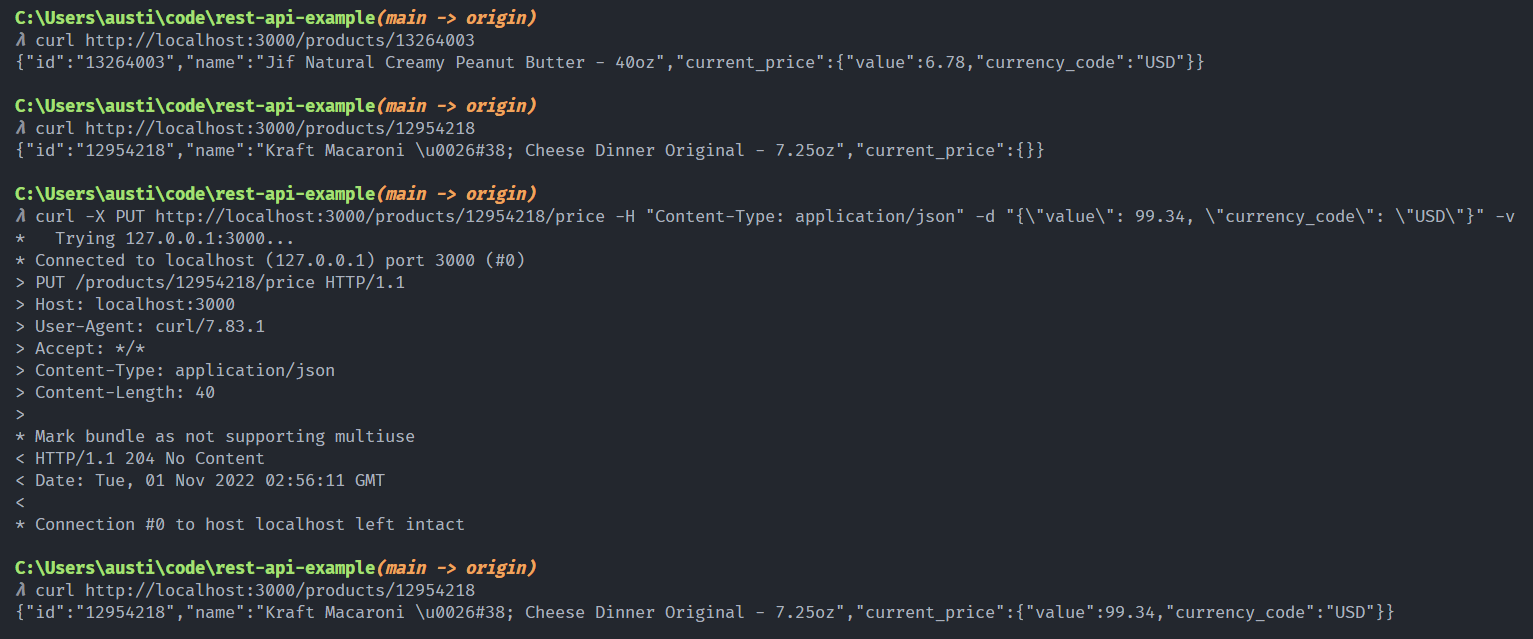
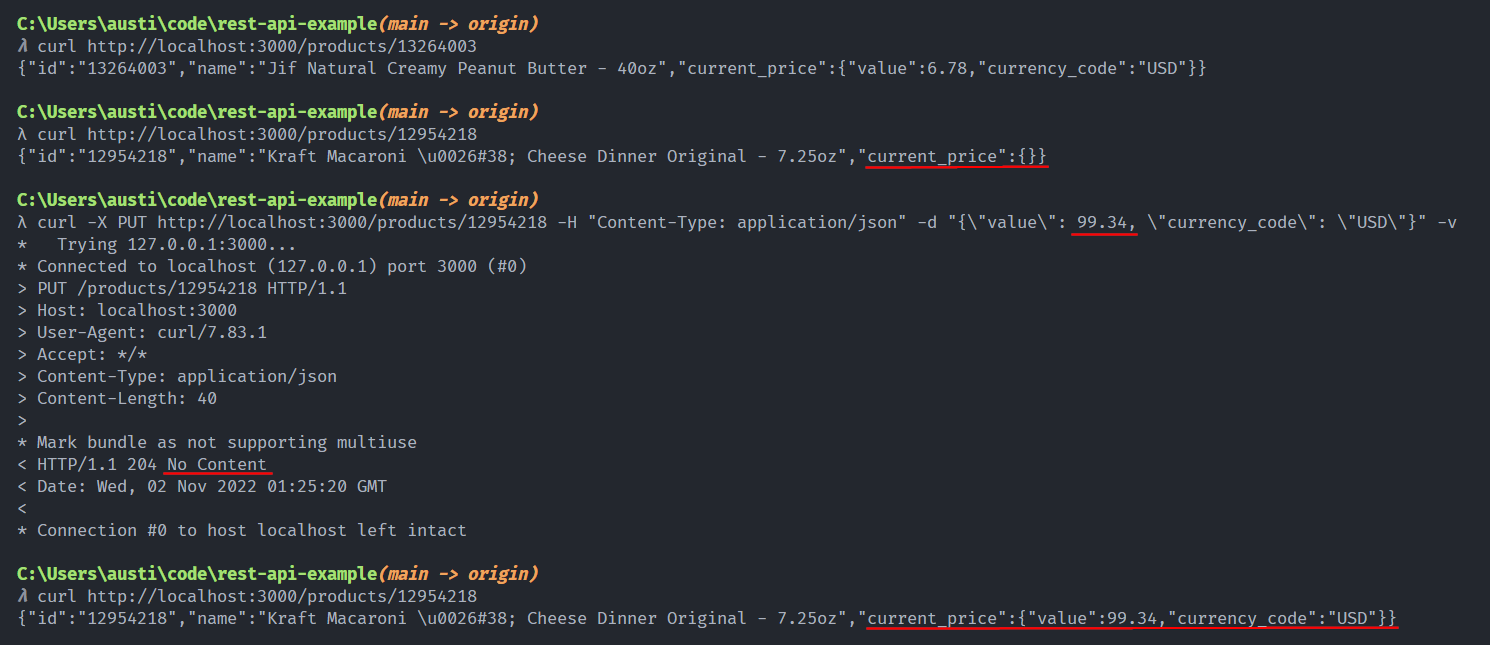
update route

diff --git a/cmd/api/main.go b/cmd/api/main.go
@@ -40,7 +40,7 @@ func main() {
 	productEndpoint := productEndpoint{db: db}
 
 	r.Get("/products/{id:\\d+}", productEndpoint.getProductById)
-	r.Put("/products/{id:\\d+}/price", productEndpoint.updateProductPriceById)
+	r.Put("/products/{id:\\d+}", productEndpoint.updateProductPriceById)
 
 	port := getPort()
 	log.Printf("API is running at http://localhost:%d\n", port)

diff --git a/README.md b/README.md
@@ -40,7 +40,7 @@ api.exe
 ## Testing the API
 There are two available API endpoints:
 - `GET` http://localhost:3000/products/{id}
-- `PUT` http://localhost:3000/products/{id}/price
+- `PUT` http://localhost:3000/products/{id}
     - **Request body example**
     ```json
     {
